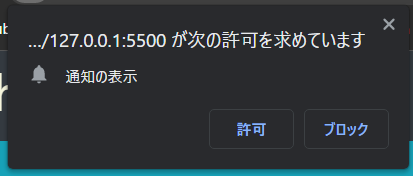
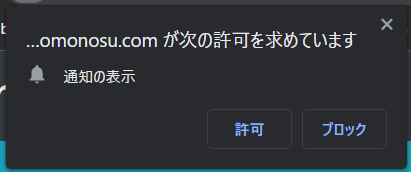
説明修正。写真追加

diff --git a/index.html b/index.html
@@ -102,7 +102,8 @@
                                     ①このサイトからの通知をオンにする<br>
                                     サイトからの通知を許可する必要があります。<br>
                                     初めてのご利用の際、「ブッシュテスト」ボタンを押すと「次の許可を求めています」という表示が出てくるので「許可」してください。<br>
-                                    また、ブラウザの設定を変更する事でサイトからの通知を許可する事もできます。<br><br>
+                                    また、ブラウザの設定を変更する事でサイトからの通知を許可する事もできます。<br>
+                                    通知許可を設定から変更する場合、後に記述の通知許可設定手順をお読みください。<br><br>
                                     ②通知内容をご入力下さい<br>
                                     プッシュ内容欄のタイトル・メッセージ・通知時間をご入力して下さい。<br>
                                     タイトル・メッセージはpush通知時に表示される内容となります。<br>
@@ -110,7 +111,12 @@
                                     入力後submitボタンを押して下さい。<br><br>
                                     ③時間になったらpush通知でお知らせします<br>
                                     このページから離れてしまうとpush通知が届かないので、ページは開いたままでお待ち下さい。<br>
-                                    通知時間になったらpush通知でお知らせします。<br>
+                                    通知時間になったらpush通知でお知らせします。<br><br><br>
+                                    [通知許可設定手順]<br><br>
+                                    <b-img src="image/permission_setting.png" fluid alt="Responsive image"></b-img><br><br>
+                                    ①URL左のアイコンをクリックし、「サイトの設定」をクリック<br><br>
+                                    <b-img src="image/permission_setting2.png" fluid alt="Responsive image"></b-img><br><br>
+                                    ②[プライバシーとセキュリティ]→[権限]の中の「通知」を許可に設定する。
                                 </p>
                             </div>
                         </b-modal>
@@ -179,7 +185,7 @@
                 <b-row>
                     <b-col>
                         <b-form-group label-cols-lg="2" label="通知時間：">
-                            <b-form-spinbutton v-model="input_time" min="1">
+                            <b-form-spinbutton v-model="input_time" min="1" max="1000">
                             </b-form-spinbutton>
                         </b-form-group>
                     </b-col>
@@ -205,10 +211,10 @@
         })
 
         //プッシュテスト
-        function PushTest(){
+        function PushTest() {
             var message = '通知成功';
             var title = '通知テスト';
-            push(title,message);
+            push(title, message);
         }
 
         //ボタンが押された時
